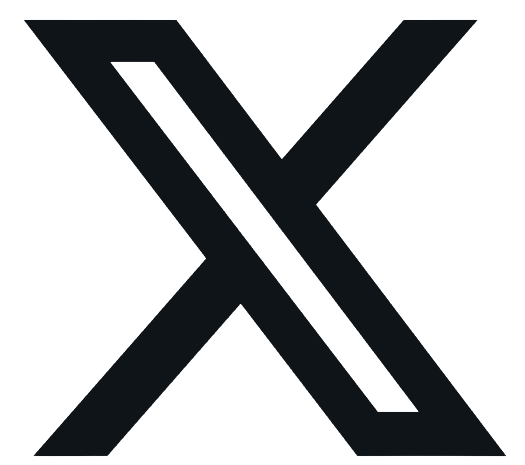
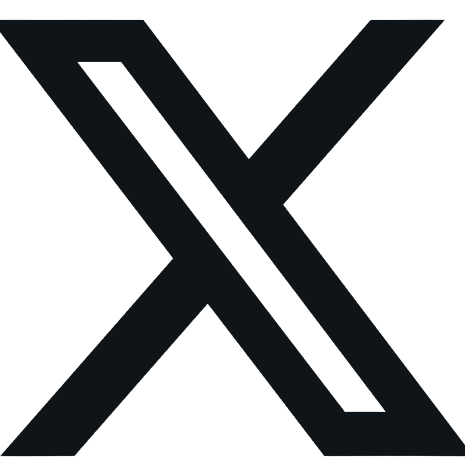
remise en forme des images de réseaux de header responsaiv

diff --git a/style/marseille.css b/style/marseille.css
@@ -35,22 +35,35 @@ body header {
   display: flex;
 }
 
+
 body header .bandeaux {
-  width: 100%;
+  width: 90%;
+  margin: auto;
+}
+
+body header .bandeaux .reseaux {
   display: flex;
-  justify-content: space-around;
   margin-top: 1%;
 }
 
-body header .bandeaux input {
+body header .bandeaux .reseaux a {
+  margin: auto;
+}
+
+body header .bandeaux .reseaux img {
   display: flex;
-  width: 50%;
-  border: solid 4px #176b87;
+  align-items: flex-end;
+}
+
+body header .bandeaux .reseaux input {
+  display: flex;
+  width: 40%;
+  border: solid 1px #176b87;
   border-radius: 20px;
   background-color: #f8f9f1;
   opacity: 0.7;
   text-align: center;
-  height: 20px;
+  height: 25px;
   margin: auto;
 }
 
@@ -95,40 +108,6 @@ body header .burger-menu nav a {
 body header .burger-menu nav a:hover {
   background: #053b50;
 }
-
-/* body header .bandeau {
-  background-color: #64ccc5;
-  display: flex;
-}
-
-body header h1 {
-  width: 100%;
-  text-align: center;
-}
-
-body header .bandeau img {
-  padding: 1%;
-}
-
-body header .frise {
-  display: flex;
-  flex-direction: column;
-  justify-content: space-around;
-  align-items: flex-end;
-  background-repeat: no-repeat;
-  background-size: cover;
-}
-
-body header .frise input {
-  display: flex;
-  width: 50%;
-  border: solid 4px #176b87;
-  border-radius: 20px;
-  background-color: #f8f9f1;
-  opacity: 0.7;
-  text-align: center;
-  height: 20px;
-} */
 
 body main {
   overflow-x: hidden;
@@ -319,18 +298,8 @@ footer p {
 }
 
 @media only screen and (max-width: 480px) {
-  body header .bandeaux .reseaux {
-    padding-top: 1%;
-    padding-left: 5%;
-  }
-
-  body header .bandeaux .reseaux a img {
-    width: 20px;
-  }
-
-  body header .bandeaux img {
-    width: 38.25px;
-    height: 25px;
+  body header .bandeaux .reseaux img {
+    width: 25px;
   }
 
   #hamburger-logo {
@@ -350,21 +319,12 @@ footer p {
 }
 
 @media only screen and (min-width: 481px) and (max-width: 767px) {
-  body header .bandeaux .reseaux {
-    padding-left: 5%;
+  body header .bandeaux .reseaux img {
+    width: 35px;
   }
 
-  body header .bandeaux .reseaux a img {
-    width: 30px;
-  }
-
-  body header .bandeaux img {
-    width: 49px;
-    height: 32.5px;
-  }
-
-  body header .recherche input {
-    height: 30px;
+  body header .bandeaux .reseaux input {
+    height: 35px;
   }
 
   #hamburger-logo {
@@ -412,20 +372,11 @@ footer p {
 }
 
 @media only screen and (min-width: 768px) and (max-width: 1023px) {
-  body header .bandeaux .reseaux {
-    padding-left: 5%;
-  }
-
-  body header .bandeaux .reseaux a img {
+  body header .bandeaux .reseaux img {
     width: 45px;
   }
 
-  body header .bandeaux img {
-    width: 74.58px;
-    height: 48.75;
-  }
-
-  body header .recherche input {
+  body header .bandeaux .reseaux input {
     height: 45px;
   }
 
@@ -478,21 +429,12 @@ footer p {
 }
 
 @media only screen and (min-width: 1023px) {
-  body header .bandeaux .reseaux {
-    padding-left: 5%;
+  body header .bandeaux .reseaux img {
+    width: 55px;
   }
 
-  body header .bandeaux .reseaux a img {
-    width: 68px;
-  }
-
-  body header .bandeaux img {
-    width: 111.69px;
-    height: 73px;
-  }
-
-  body header .bandeaux .recherche input {
-    height: 68px;
+  body header .bandeaux .reseaux input {
+    height: 55px;
   }
 
   #hamburger-logo {

diff --git a/marseille.html b/marseille.html
@@ -35,17 +35,17 @@
     <header>
         <section class="bandeaux">
             <section class="reseaux">
-                <a href="https://twitter.com/marseille"><img src="./assets/accueil/twitter.png"
+                <a href="https://twitter.com/marseille"><img src="./assets/accueil/twitter2.png"
                         alt="logo de Twitter"></a>
-                <a href="https://www.facebook.com/marseilleville/"><img src="./assets/accueil/facebook.png"
-                        alt="logo de Facebook"></a>
-                <a href="https://www.instagram.com/villemarseille/"><img src="./assets/accueil/instagram.png"
+                <a href="https://www.instagram.com/villemarseille/"><img src="./assets/accueil/instagram2.png"
                         alt="logo d'Instagram"></a>
-                <a href="https://www.youtube.com/user/VilledeMarseille"><img src="./assets/accueil/youtube.png"
+                <input type="text" id="recherche" name="recherche" placeholder="Recherche..."></input>
+                <a href="https://www.facebook.com/marseilleville/"><img src="./assets/accueil/facebook2.png"
+                        alt="logo de Facebook"></a>
+                <a href="https://www.youtube.com/user/VilledeMarseille"><img src="./assets/accueil/youtube2.png"
                         alt="logo de youtube"></a>
+                <img src="./assets/accueil/logo_2.png" alt="Logo de la ville de Marseille">
             </section>
-            <input type="text" id="recherche" name="recherche" placeholder="Recherche..."></input>
-            <img src="./assets/accueil/logo_0.png" alt="Logo de la ville de Marseille">
         </section>
         <section class="burger-menu">
             <input type="checkbox" id="hamburger">
@@ -112,7 +112,7 @@
         <h2>Sport à la une</h2>
         <section class="match container">
             <section class="container-scroll">
-                <article class="article-scroll">                    
+                <article class="article-scroll">
                     <h3>Football Masculin</h3>
                     <h3><span>OM</span> Vs <span>Ajax</span></h3>
                     <section class="gallery">
